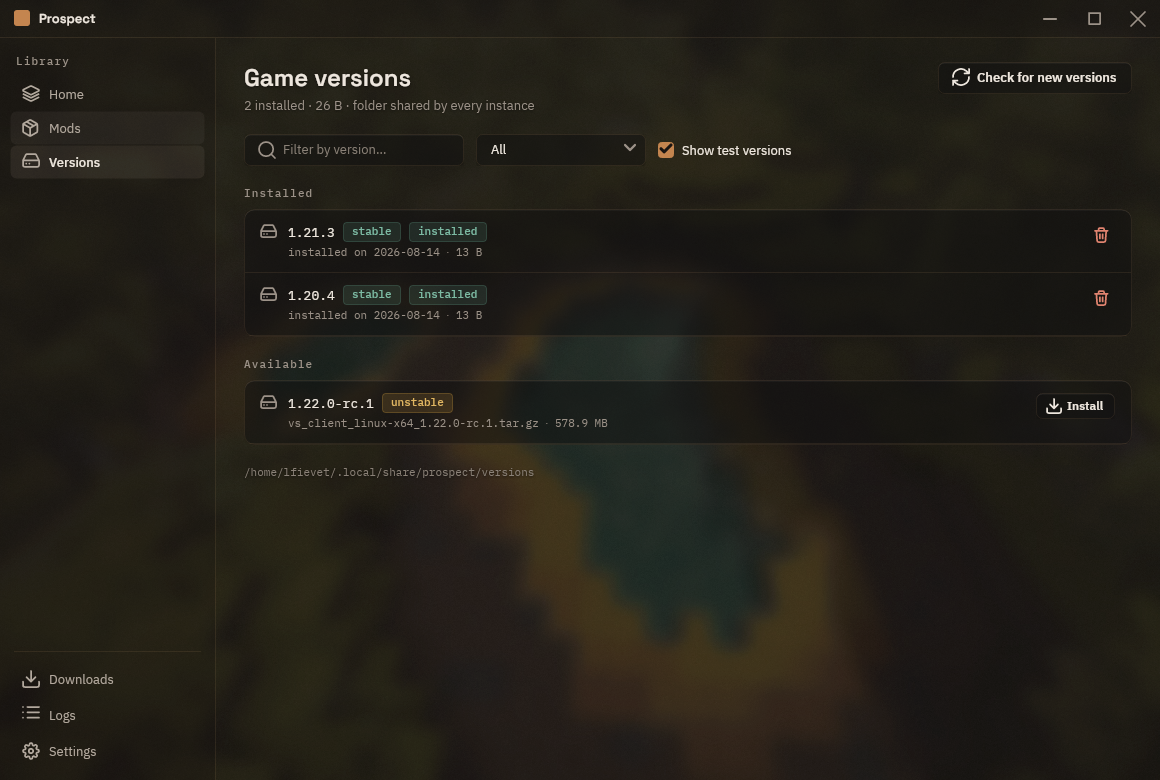
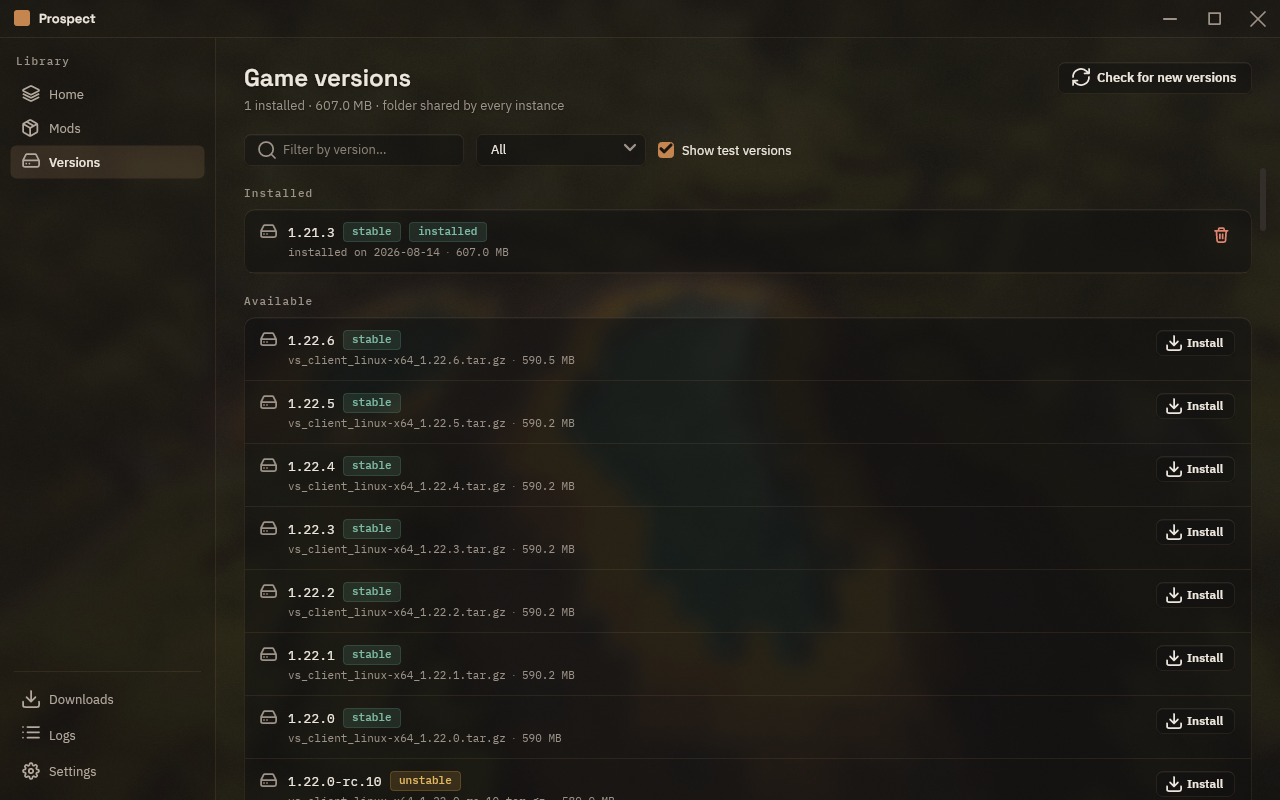
feat: recapture the gallery against the real ModDB and grow it to eight screens
The five existing screens were captured on the fake test catalog: two or
three mods, placeholder logos. The whole set is recaptured at 1280x800,
per language and per theme, and the three ModDB screens now face the live
service: the browser shows the real catalog (8000+ mods, real logos and
download counts, per-instance compatibility badges), the new mod page
shows Carry On as its author wrote it with the one-line summary on top,
and the versions screen lists the real stable and unstable catalogs next
to an installed version.

Three screens join the gallery: the mod page, the instance checkup with
two actionable findings, and the backdrop picker with its eleven in-game
thumbnails. The instance Mods tab now carries last-launch verdict badges
and a works-with tie. Seeded screens show a neutral home folder instead
of the capture machine's username.

The gallery lead now says eight screens and states that the ModDB ones
are not a mock-up; the grid and lightbox needed no structural change,
only the 1280x800 frame in the img attributes and the CSS aspect ratio.

diff --git a/src/i18n/landing.ts b/src/i18n/landing.ts
@@ -100,7 +100,7 @@ export const en: LandingStrings = {
 	gallery: {
 		eyebrow: 'On screen',
 		title: 'The interface',
-		lead: 'Five screens from today’s builds, in both themes. The glass is mined from the same vein as the game (copper, stone, linen) and sits on a backdrop you pick from eleven in-game captures. The interface speaks English and French; each page of this site shows its own.',
+		lead: 'Eight screens from today’s builds, in both themes. The ModDB screens show the real catalog, not a mock-up. The glass is mined from the same vein as the game (copper, stone, linen) and sits on a backdrop you pick from eleven in-game captures. The interface speaks English and French; each page of this site shows its own.',
 		zoom: 'View full size:',
 		close: 'Close',
 		items: [
@@ -112,12 +112,17 @@ export const en: LandingStrings = {
 			{
 				src: 'instance-mods.png',
 				caption: 'An instance, Mods tab',
-				alt: 'Instance page on its Mods tab: enable toggles and update checks, next to the Worlds, Log and Options tabs',
+				alt: 'Instance page on its Mods tab: enable toggles and last-launch verdict badges, next to the Worlds, Log and Options tabs',
 			},
 			{
 				src: 'navigateur-moddb.png',
 				caption: 'The mod browser (ModDB)',
 				alt: 'Mod browser: the official ModDB in a fluid card grid, one-line summaries and per-instance compatibility badges',
+			},
+			{
+				src: 'fiche-mod.png',
+				caption: 'A mod’s page (Carry On)',
+				alt: 'Carry On’s ModDB page inside Prospect: the author’s description with its headings and images, the one-line summary at the top',
 			},
 			{
 				src: 'versions.png',
@@ -128,6 +133,16 @@ export const en: LandingStrings = {
 				src: 'wizard-instance.png',
 				caption: 'The new instance wizard',
 				alt: 'New instance wizard: naming the instance, first step of four',
+			},
+			{
+				src: 'docteur.png',
+				caption: 'The instance checkup',
+				alt: 'Instance checkup dialog: each finding named with its own fix, here a game version to install and a missing mod dependency',
+			},
+			{
+				src: 'reglages-fonds.png',
+				caption: 'Settings: pick your backdrop',
+				alt: 'General settings: the grid of eleven in-game backdrops, the selected one highlighted',
 			},
 		],
 	},
@@ -198,7 +213,7 @@ export const fr: LandingStrings = {
 	gallery: {
 		eyebrow: 'En images',
 		title: 'L’interface',
-		lead: 'Cinq écrans des builds du jour, dans les deux thèmes. Le verre sort du même filon que le jeu (cuivre, pierre, lin) et repose sur un fond d’écran à choisir parmi onze captures du jeu. L’interface parle français et anglais ; chaque page de ce site montre la sienne.',
+		lead: 'Huit écrans des builds du jour, dans les deux thèmes. Les écrans ModDB montrent le vrai catalogue, pas une maquette. Le verre sort du même filon que le jeu (cuivre, pierre, lin) et repose sur un fond d’écran à choisir parmi onze captures du jeu. L’interface parle français et anglais ; chaque page de ce site montre la sienne.',
 		zoom: 'Voir en grand :',
 		close: 'Fermer',
 		items: [
@@ -210,12 +225,17 @@ export const fr: LandingStrings = {
 			{
 				src: 'instance-mods.png',
 				caption: 'Une instance, onglet Mods',
-				alt: 'Page d’instance, onglet Mods : interrupteurs d’activation et vérification des mises à jour, à côté des onglets Mondes, Journal et Options',
+				alt: 'Page d’instance, onglet Mods : interrupteurs d’activation et pastilles de verdict du dernier lancement, à côté des onglets Mondes, Journal et Options',
 			},
 			{
 				src: 'navigateur-moddb.png',
 				caption: 'Le navigateur de mods (ModDB)',
 				alt: 'Navigateur de mods : le ModDB officiel en grille fluide, résumés d’une ligne et badges de compatibilité par instance',
+			},
+			{
+				src: 'fiche-mod.png',
+				caption: 'La fiche d’un mod (Carry On)',
+				alt: 'Fiche ModDB de Carry On dans Prospect : la description de l’auteur avec ses titres et ses images, le résumé d’une ligne en tête',
 			},
 			{
 				src: 'versions.png',
@@ -226,6 +246,16 @@ export const fr: LandingStrings = {
 				src: 'wizard-instance.png',
 				caption: 'L’assistant de création',
 				alt: 'Assistant de création d’instance : saisie du nom, première étape sur quatre',
+			},
+			{
+				src: 'docteur.png',
+				caption: 'Le diagnostic d’instance',
+				alt: 'Dialogue de diagnostic : chaque constat nommé avec son geste de réparation, ici une version du jeu à installer et une dépendance de mod manquante',
+			},
+			{
+				src: 'reglages-fonds.png',
+				caption: 'Réglages : le choix du fond',
+				alt: 'Réglages Général : la grille des onze fonds tirés du jeu, la vignette choisie mise en avant',
 			},
 		],
 	},

diff --git a/src/styles/custom.css b/src/styles/custom.css
@@ -886,7 +886,7 @@ body::after {
 .pr-gallery img {
 	width: 100%;
 	height: auto;
-	aspect-ratio: 1160 / 780;
+	aspect-ratio: 1280 / 800;
 	object-fit: cover;
 	background: var(--bg-surface);
 }
